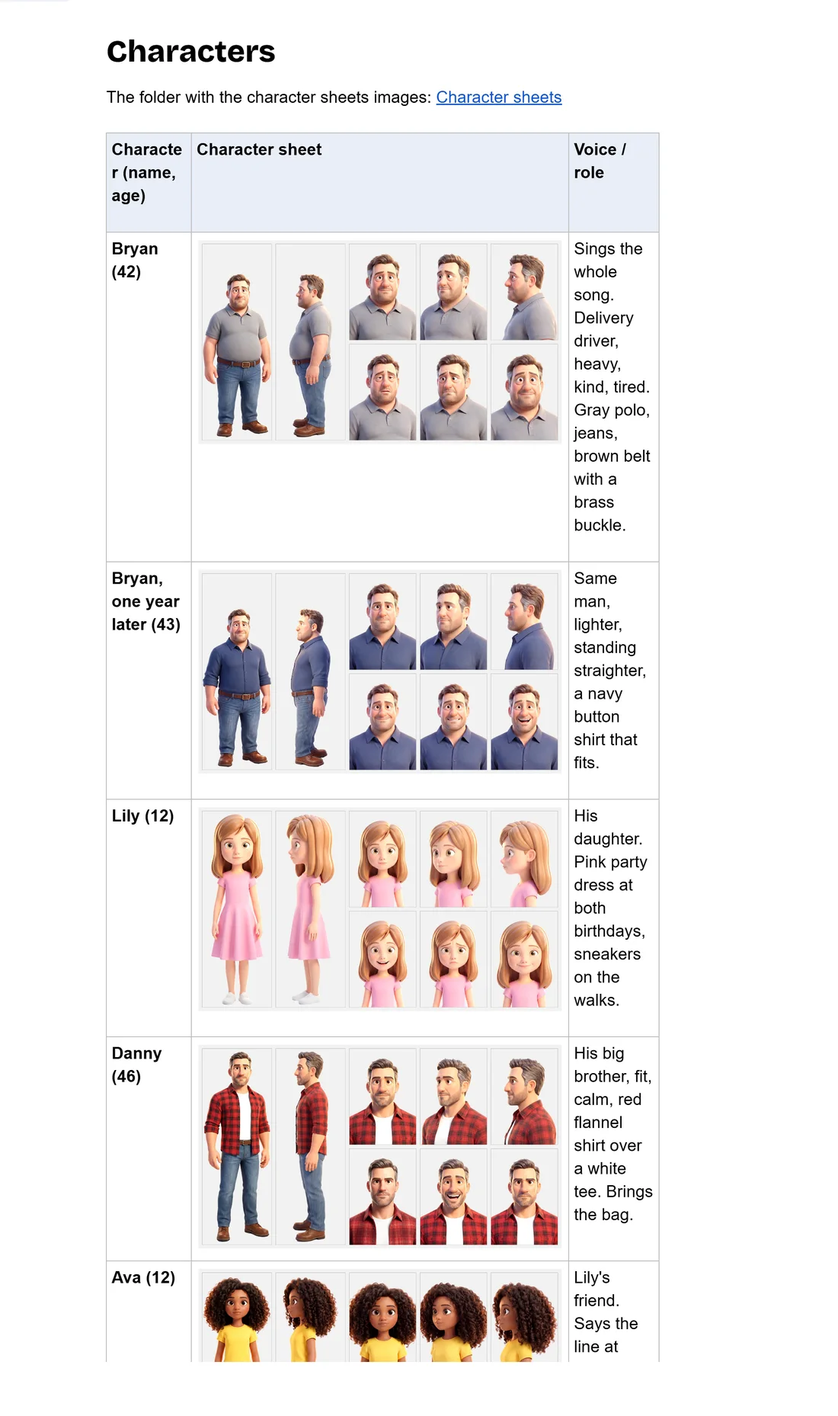
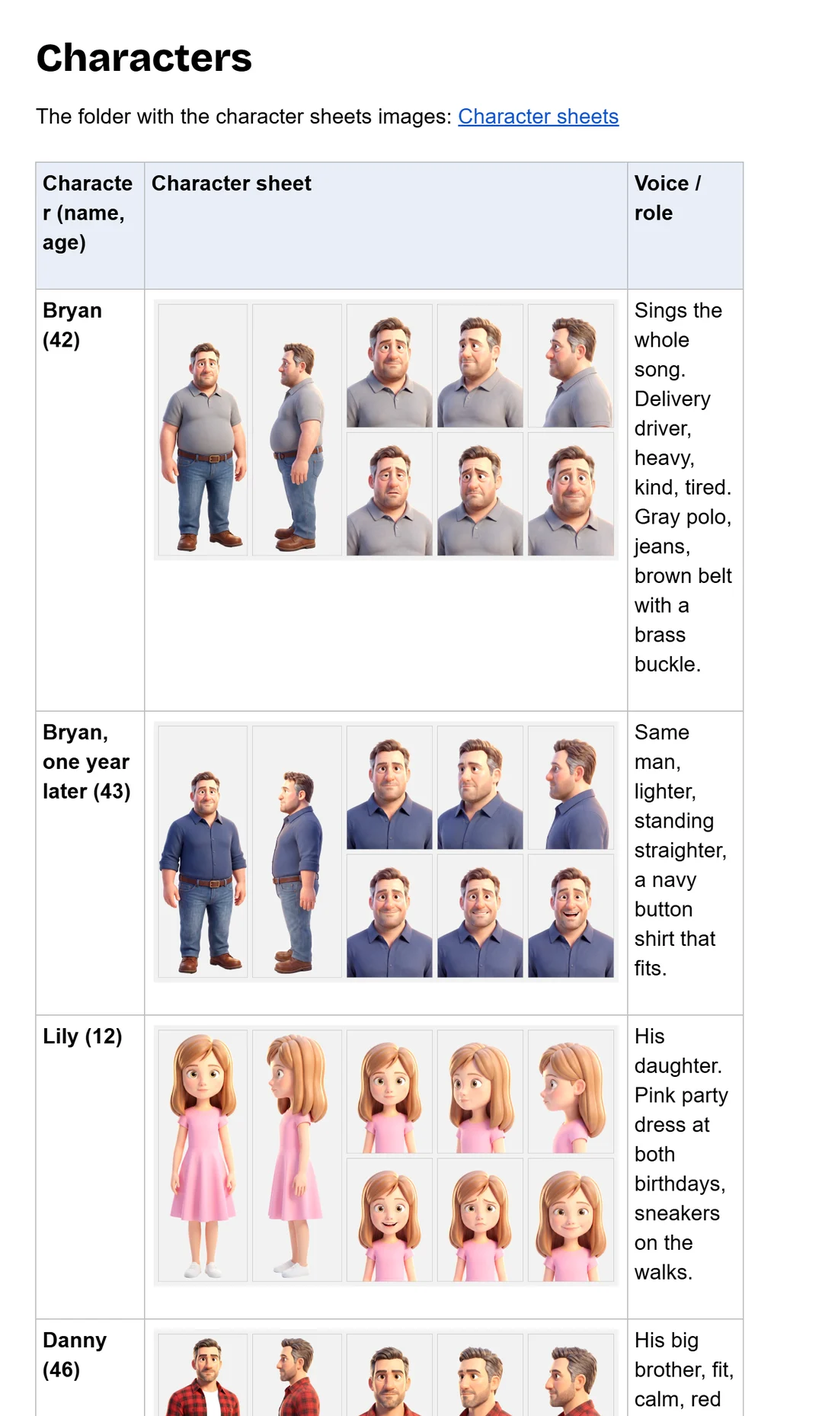
Round 6: testimonial cards on top (Valerio first), reel drag + no arrows + sizes shrink every step, statics display-only, headings in caps, font preview (?fonts), Cal.com link, fixed Bryan sheet in brief preview

diff --git a/site/index.html b/site/index.html
@@ -11,6 +11,7 @@
 <link rel="apple-touch-icon" href="/apple-touch-icon.png">
 <link rel="stylesheet" href="/fonts/fonts.css">
 <link rel="stylesheet" href="/styles.css">
+<script src="/font-preview.js" defer></script>
 </head>
 <body>
 <a class="skip-link" href="#main">Skip to content</a>
@@ -40,19 +41,23 @@
       <img class="hero-photo" src="/pascal-sterzik.webp" width="720" height="720" alt="Pascal Sterzik">
     </div>
     <div class="wrap">
-      <blockquote class="hero-quote">
-        <p>"You wrote some pretty great copy. Especially the advertorial; there was a lot of good stuff in there, a lot of good ideas."</p>
-        <footer>Svetoslav Dimitrov, copy chief at a mastermind of top 1% Meta advertisers and one of the best VSL copywriters in the world ($20M in sales)</footer>
-      </blockquote>
+      <div class="t-grid">
+        <figure class="t-card">
+          <blockquote>"They both told me that you are doing great ... Keep pushing in this way man. We like the attention to the details. 💪"</blockquote>
+          <figcaption><span class="t-photo t-initials" aria-hidden="true">VF</span><span><strong>Valerio Fortunato</strong><span class="t-role">One of the world's best on Facebook Ads</span></span></figcaption>
+        </figure>
+        <figure class="t-card">
+          <blockquote>"You wrote some pretty great copy. Especially the advertorial; there was a lot of good stuff in there, a lot of good ideas."</blockquote>
+          <figcaption><img class="t-photo" src="/people/svetoslav-dimitrov.webp" width="56" height="56" alt="Svetoslav Dimitrov"><span><strong>Svetoslav Dimitrov</strong><span class="t-role">Copy chief at a mastermind of top 1% Meta advertisers and one of the best VSL copywriters in the world ($20M in sales)</span></span></figcaption>
+        </figure>
+      </div>
     </div>
   </section>
 
   <section class="reel" id="reel" aria-labelledby="reel-h">
     <div class="wrap"><h2 id="reel-h">Here's a little taste</h2></div>
     <div class="reel-stage">
-      <button class="reel-arrow prev" data-reel-prev aria-label="Previous ads"><svg width="20" height="20" viewBox="0 0 24 24" fill="none" stroke="currentColor" stroke-width="2.2" aria-hidden="true"><path d="m15 18-6-6 6-6"/></svg></button>
       <div class="reel-track"></div>
-      <button class="reel-arrow next" data-reel-next aria-label="Next ads"><svg width="20" height="20" viewBox="0 0 24 24" fill="none" stroke="currentColor" stroke-width="2.2" aria-hidden="true"><path d="m9 18 6-6-6-6"/></svg></button>
     </div>
   </section>
 
@@ -85,9 +90,9 @@
   <section class="section section-white" aria-labelledby="brief-h">
     <div class="wrap">
       <h2 id="brief-h">Ad scripts delivered on a silver platter</h2>
-      <p class="bp-intro">I add an extra pound of attention to detail so that even a blindfolded toddler could turn these into winning videos.</p>
+      <p class="bp-intro">I add an extra pound of attention to detail so that even a blindfolded toddler could turn these into winning video ads.</p>
       <div class="bp-grid">
-        <ul class="bp-list"><li class="bp-item open"><button class="bp-head" aria-expanded="true" data-img="/brief/script.webp?v=5" data-alt="Hooks and script in the RYZE ad script brief"><span class="bp-num">01</span>Hooks and script</button><div class="bp-body"><p>Every part gets its own row. The visual, what happens, and the line. The video editor doesn't have to guess how it should look like. He simply has to turn it to life.</p></div></li><li class="bp-item"><button class="bp-head" aria-expanded="false" data-img="/brief/characters.webp" data-alt="Characters in the RYZE ad script brief"><span class="bp-num">02</span>Characters</button><div class="bp-body"><p>Every character gets a character sheet showing them from multiple angles so they look the same in every shot. Many miss this and wonder why their character switches their haircut and outfit from scene to scene. No bueno.</p></div></li><li class="bp-item"><button class="bp-head" aria-expanded="false" data-img="/brief/sets.webp" data-alt="Sets in the RYZE ad script brief"><span class="bp-num">03</span>Sets</button><div class="bp-body"><p>Every place gets a set sheet and a seating chart, so rooms, doors and seats stay the same from shot to shot. Again, you don't want random chairs appearing like it's WWE.</p></div></li><li class="bp-item"><button class="bp-head" aria-expanded="false" data-img="/brief/folder.webp?v=5" data-alt="Image folder in the RYZE ad script brief"><span class="bp-num">04</span>Image folder</button><div class="bp-body"><p>Every image in the script sits in a folder, numbered and named by hook and row so your video editor can find, download, and hand each image to Higgsfield. or Claude. Or ChatGPT. I don't care. I just want a great video ad.</p></div></li><li class="bp-item"><button class="bp-head" aria-expanded="false" data-img="/brief/briefing.webp" data-alt="Briefing in the RYZE ad script brief"><span class="bp-num">05</span>Briefing</button><div class="bp-body"><p>All the info you need, and nothing you don't. Read this to get the big idea of the ad.</p></div></li><li class="bp-item"><button class="bp-head" aria-expanded="false" data-img="/brief/editor-notes.webp" data-alt="Notes for the video editor in the RYZE ad script brief"><span class="bp-num">06</span>Notes for the video editor</button><div class="bp-body"><p>This gives clear, more detailed instructions for the video editor so he can turn the ad script brief into a video ad more efficiently.</p></div></li><li class="bp-item"><button class="bp-head" aria-expanded="false" data-img="/brief/copy.webp" data-alt="Primary text, headline, button in the RYZE ad script brief"><span class="bp-num">07</span>Primary text, headline, button</button><div class="bp-body"><p>Most creative strategists just hand the creative without the primary text, and the media buyer just slaps the same three lines on it he used for all the other 387 ads. Guess what? Andromeda uses the primary text to target better. Plus, long-form copy reduces NC CPA because only interested people click. Same with the headline and button. It's all underrated.</p></div></li><li class="bp-item"><button class="bp-head" aria-expanded="false" data-img="/brief/sources.webp?v=5" data-alt="Sources in the RYZE ad script brief"><span class="bp-num">08</span>Sources</button><div class="bp-body"><p>I don't make things up. You can find the source for every claim in here. We're just little snowflakes... we'd never lie to our customers, would we? 😙🎶</p></div></li></ul>
+        <ul class="bp-list"><li class="bp-item open"><button class="bp-head" aria-expanded="true" data-img="/brief/script.webp?v=5" data-alt="Hooks and script in the RYZE ad script brief"><span class="bp-num">01</span>Hooks and script</button><div class="bp-body"><p>Every part gets its own row. The visual, what happens, and the line. The video editor doesn't have to guess how it should look like. He simply has to turn it to life.</p></div></li><li class="bp-item"><button class="bp-head" aria-expanded="false" data-img="/brief/characters.webp?v=6" data-alt="Characters in the RYZE ad script brief"><span class="bp-num">02</span>Characters</button><div class="bp-body"><p>Every character gets a character sheet showing them from multiple angles so they look the same in every shot. Many miss this and wonder why their character switches their haircut and outfit from scene to scene. No bueno.</p></div></li><li class="bp-item"><button class="bp-head" aria-expanded="false" data-img="/brief/sets.webp" data-alt="Sets in the RYZE ad script brief"><span class="bp-num">03</span>Sets</button><div class="bp-body"><p>Every place gets a set sheet and a seating chart, so rooms, doors and seats stay the same from shot to shot. Again, you don't want random chairs appearing like it's WWE.</p></div></li><li class="bp-item"><button class="bp-head" aria-expanded="false" data-img="/brief/folder.webp?v=5" data-alt="Image folder in the RYZE ad script brief"><span class="bp-num">04</span>Image folder</button><div class="bp-body"><p>Every image in the script sits in a folder, numbered and named by hook and row so your video editor can find, download, and hand each image to Higgsfield. or Claude. Or ChatGPT. I don't care. I just want a great video ad.</p></div></li><li class="bp-item"><button class="bp-head" aria-expanded="false" data-img="/brief/briefing.webp" data-alt="Briefing in the RYZE ad script brief"><span class="bp-num">05</span>Briefing</button><div class="bp-body"><p>All the info you need, and nothing you don't. Read this to get the big idea of the ad.</p></div></li><li class="bp-item"><button class="bp-head" aria-expanded="false" data-img="/brief/editor-notes.webp" data-alt="Notes for the video editor in the RYZE ad script brief"><span class="bp-num">06</span>Notes for the video editor</button><div class="bp-body"><p>This gives clear, more detailed instructions for the video editor so he can turn the ad script brief into a video ad more efficiently.</p></div></li><li class="bp-item"><button class="bp-head" aria-expanded="false" data-img="/brief/copy.webp" data-alt="Primary text, headline, button in the RYZE ad script brief"><span class="bp-num">07</span>Primary text, headline, button</button><div class="bp-body"><p>Most creative strategists just hand the creative without the primary text, and the media buyer just slaps the same three lines on it he used for all the other 387 ads. Guess what? Andromeda uses the primary text to target better. Plus, long-form copy reduces NC CPA because only interested people click. Same with the headline and button. It's all underrated.</p></div></li><li class="bp-item"><button class="bp-head" aria-expanded="false" data-img="/brief/sources.webp?v=5" data-alt="Sources in the RYZE ad script brief"><span class="bp-num">08</span>Sources</button><div class="bp-body"><p>I don't make things up. You can find the source for every claim in here. We're just little snowflakes... we'd never lie to our customers, would we? 😙🎶</p></div></li></ul>
         <div class="bp-preview"><img id="bp-img" src="/brief/script.webp?v=5" alt="Hooks and script in the RYZE ad script brief" loading="lazy"></div>
       </div>
       <div class="bp-cta"><a class="btn btn-primary btn-big" href="https://docs.google.com/document/d/1-VPXum8p5zrKM9LkQV0jGPKiHbWKDu3WSVC5s--LYEk/edit?tab=t.0" target="_blank" rel="noopener">See the full brief</a></div>
@@ -150,15 +155,6 @@
           <li>People who want winners, not just "content"</li>
         </ul><p class="fit-foot">Sounds like you? ... It's a match! 🥳</p></div>
       </div>
-    </div>
-  </section>
-
-  <section class="section section-paper" aria-label="What people say">
-    <div class="wrap">
-      <blockquote class="big-quote">
-        <p>"They both told me that you are doing great ... Keep pushing in this way man. We like the attention to the details. 💪"</p>
-        <footer>Valerio Fortunato, one of the world's best on Facebook Ads</footer>
-      </blockquote>
     </div>
   </section>
 

diff --git a/site/app.js b/site/app.js
@@ -158,6 +158,7 @@
     track.innerHTML = list.map(a => `<button class="reel-card" data-slug="${esc(a.slug)}" aria-label="${esc(a.brand_name)}: ${esc(a.headline)}">
       <img src="${esc(a.poster_url || a.media)}" alt="${esc(a.brand_name)} ad: ${esc(a.ad_type)}" loading="lazy"></button>`).join('');
     const cards = [...track.children];
+    const S0 = 1.08, R = 0.82, LNR = Math.log(R);
     let raf = 0;
     const paint = () => {
       raf = 0;
@@ -165,13 +166,13 @@
       cards.forEach(c => {
         // distance from the center in card steps, from layout (not the transformed box)
         const w = c.offsetWidth, d = (c.offsetLeft - track.scrollLeft + w / 2 - mid) / (w + gap);
-        // Atria: cards sit on a gentle curve; the center card is clearly bigger, the rest shrink with distance
+        // Atria: cards sit on a gentle curve; the center card is biggest and every step out is smaller again
         const a = Math.abs(d);
-        const s = 1.08 - 0.2 * Math.min(a, 1) - 0.1 * Math.max(0, Math.min(a, 2) - 1);
+        const s = S0 * Math.pow(R, a);
         // pull shrunken cards inward so the gaps stay even (integral of the scale change)
-        const I = a <= 1 ? 0.08 * a - 0.1 * a * a : a <= 2 ? -0.02 - 0.12 * (a - 1) - 0.05 * (a - 1) * (a - 1) : -0.19 - 0.22 * (a - 2);
+        const I = S0 * (Math.pow(R, a) - 1) / LNR - a;
         const x = Math.sign(d) * w * I;
-        c.style.transform = 'translateX(' + x.toFixed(1) + 'px) perspective(1100px) rotateY(' + (Math.max(-2.5, Math.min(2.5, d)) * 7).toFixed(2) + 'deg) scale(' + s.toFixed(3) + ')';
+        c.style.transform = 'translateX(' + x.toFixed(1) + 'px) perspective(1100px) rotateY(' + (Math.max(-1.5, Math.min(1.5, d)) * 6).toFixed(2) + 'deg) scale(' + s.toFixed(3) + ')';
         c.style.zIndex = String(10 - Math.min(9, Math.round(a * 2)));
         c.style.opacity = '1';
         c.classList.toggle('is-center', Math.abs(d) < 0.5);
@@ -180,14 +181,37 @@
     const queue = () => { if (!raf) raf = requestAnimationFrame(paint); };
     track.addEventListener('scroll', queue, { passive: true });
     addEventListener('resize', queue);
-    const stepBy = dir => { const w = cards[0].offsetWidth + parseFloat(getComputedStyle(track).columnGap || 0); track.scrollBy({ left: dir * w, behavior: 'smooth' }); };
-    reel.querySelector('[data-reel-prev]').addEventListener('click', () => stepBy(-1));
-    reel.querySelector('[data-reel-next]').addEventListener('click', () => stepBy(1));
     // start in the middle so cards show on both sides
     requestAnimationFrame(() => { const c = cards[Math.floor(cards.length / 2)]; track.scrollLeft = c.offsetLeft - (track.clientWidth - c.clientWidth) / 2; paint(); });
     // a side card slides to the center; the center card does nothing
     const centerOn = c => track.scrollTo({ left: c.offsetLeft - (track.clientWidth - c.clientWidth) / 2, behavior: 'smooth' });
-    track.addEventListener('click', e => { const c = e.target.closest('.reel-card'); if (c && !c.classList.contains('is-center')) centerOn(c); });
+    // mouse drag on desktop: grab and swipe left or right, then snap to the nearest card
+    let drag = null, moved = false;
+    track.addEventListener('pointerdown', e => {
+      if (e.pointerType !== 'mouse' || e.button !== 0) return;
+      drag = { x: e.clientX, left: track.scrollLeft, id: e.pointerId }; moved = false;
+      track.classList.add('dragging');
+    });
+    addEventListener('pointermove', e => {
+      if (!drag || e.pointerId !== drag.id) return;
+      const dx = e.clientX - drag.x;
+      if (Math.abs(dx) > 4) moved = true;
+      track.scrollLeft = drag.left - dx;
+    });
+    const endDrag = () => {
+      if (!drag) return;
+      drag = null; track.classList.remove('dragging');
+      // snap: the card closest to the middle slides to the center
+      const mid = track.scrollLeft + track.clientWidth / 2;
+      const near = cards.reduce((b, c) => Math.abs(c.offsetLeft + c.offsetWidth / 2 - mid) < Math.abs(b.offsetLeft + b.offsetWidth / 2 - mid) ? c : b, cards[0]);
+      centerOn(near);
+    };
+    addEventListener('pointerup', endDrag); addEventListener('pointercancel', endDrag);
+    track.addEventListener('dragstart', e => e.preventDefault());
+    track.addEventListener('click', e => {
+      if (moved) { moved = false; return; } // a drag is not a click
+      const c = e.target.closest('.reel-card'); if (c && !c.classList.contains('is-center')) centerOn(c);
+    });
   }
 
   // ---------- Homepage statics rows (two marquees, opposite directions) ----------
@@ -198,9 +222,9 @@
     const half = Math.ceil(pool.length / 2);
     rows.forEach((row, k) => {
       const items = k === 0 ? pool.slice(0, half) : pool.slice(half);
-      const html = items.map(a => `<button class="mq-card" data-slug="${esc(a.slug)}" aria-label="${esc(a.brand_name)}: ${esc(a.headline)}"><img src="${esc(a.media)}" alt="" loading="lazy" style="aspect-ratio:${String(a.aspect_ratio).replace(':', '/')}"></button>`).join('');
-      row.querySelector('.mq-track').innerHTML = html + html.replace(/<button /g, '<button tabindex="-1" aria-hidden="true" ');
-      row.addEventListener('click', e => { const c = e.target.closest('.mq-card'); if (c) openAd(c.dataset.slug, items); });
+      // display only: not clickable, no hover effect
+      const html = items.map(a => `<div class="mq-card"><img src="${esc(a.media)}" alt="${esc(a.brand_name)} ad" loading="lazy" draggable="false" style="aspect-ratio:${String(a.aspect_ratio).replace(':', '/')}"></div>`).join('');
+      row.querySelector('.mq-track').innerHTML = html + html.replace(/<div class="mq-card">/g, '<div class="mq-card" aria-hidden="true">');
     });
   }
 

diff --git a/site/font-preview.js b/site/font-preview.js
@@ -1,0 +1,66 @@
+// Font preview for Pascal: open any page with ?fonts to get a switcher. Off for normal visitors.
+(function () {
+  var KEY = 'ps-font-preview';
+  var on = /[?&]fonts\b/.test(location.search);
+  try { if (on) localStorage.setItem(KEY, localStorage.getItem(KEY) || '{"i":0,"caps":true}'); else on = !!localStorage.getItem(KEY); } catch (e) {}
+  if (!on) return;
+
+  var FONTS = [
+    ['Bricolage Grotesque 700 (now)', 'Bricolage Grotesque', 700, null],
+    ['Bricolage Grotesque 800', 'Bricolage Grotesque', 800, 'Bricolage+Grotesque:opsz,wght@12..96,800'],
+    ['Archivo Black', 'Archivo Black', 400, 'Archivo+Black'],
+    ['Inter Tight Black', 'Inter Tight', 900, 'Inter+Tight:wght@900'],
+    ['Inter Tight ExtraBold (logo name)', 'Inter Tight', 800, 'Inter+Tight:wght@800'],
+    ['Montserrat Black', 'Montserrat', 900, 'Montserrat:wght@900'],
+    ['Unbounded ExtraBold', 'Unbounded', 800, 'Unbounded:wght@800'],
+    ['Syne ExtraBold', 'Syne', 800, 'Syne:wght@800'],
+    ['Anton', 'Anton', 400, 'Anton'],
+    ['Big Shoulders Display Black', 'Big Shoulders Display', 900, 'Big+Shoulders+Display:wght@900'],
+    ['Goldman Bold (logo mark)', 'Goldman', 700, 'Goldman:wght@700']
+  ];
+  var link = document.createElement('link');
+  link.rel = 'stylesheet';
+  link.href = 'https://fonts.googleapis.com/css2?' + FONTS.filter(function (f) { return f[3]; }).map(function (f) { return 'family=' + f[3]; }).join('&') + '&display=swap';
+  document.head.appendChild(link);
+
+  var style = document.createElement('style');
+  document.head.appendChild(style);
+  var state; try { state = JSON.parse(localStorage.getItem(KEY)); } catch (e) { state = { i: 0, caps: true }; }
+
+  var css = '#fp{position:fixed;right:12px;bottom:12px;z-index:200;width:290px;max-width:calc(100vw - 24px);background:#0D1B33;color:#F1F4F8;border:1px solid rgba(255,255,255,.18);border-radius:14px;box-shadow:0 20px 50px -12px rgba(0,0,0,.7);font:500 14px/1.3 "DM Sans",sans-serif}' +
+    '#fp .h{display:flex;justify-content:space-between;align-items:center;padding:10px 12px;border-bottom:1px solid rgba(255,255,255,.1);font-weight:700}' +
+    '#fp .h button{background:none;border:0;color:#A9B6C8;font:inherit;cursor:pointer;padding:4px 6px}' +
+    '#fp .b{max-height:46vh;overflow:auto;padding:6px}' +
+    '#fp .o{display:flex;gap:8px;align-items:center;width:100%;text-align:left;background:none;border:0;color:inherit;font:inherit;padding:8px;border-radius:8px;cursor:pointer}' +
+    '#fp .o:hover{background:rgba(255,255,255,.07)}#fp .o.on{background:#F2A43A;color:#060C18}' +
+    '#fp .n{min-width:1.4em;font-weight:700}' +
+    '#fp .f{display:flex;gap:8px;padding:10px 12px;border-top:1px solid rgba(255,255,255,.1)}' +
+    '#fp .f button{flex:1;min-height:36px;border-radius:999px;border:1px solid rgba(255,255,255,.2);background:none;color:inherit;font:inherit;cursor:pointer}' +
+    '#fp .f button.on{background:#F1F4F8;color:#060C18}' +
+    '#fp.min .b,#fp.min .f{display:none}';
+  var base = document.createElement('style'); base.textContent = css; document.head.appendChild(base);
+
+  function apply() {
+    var f = FONTS[state.i] || FONTS[0];
+    style.textContent = ':root{--font-display:"' + f[1] + '",sans-serif}h1,h2,h3{font-weight:' + f[2] + '}' +
+      (state.caps ? '' : 'h1,h2{text-transform:none;letter-spacing:-0.03em}');
+    try { localStorage.setItem(KEY, JSON.stringify(state)); } catch (e) {}
+    render();
+  }
+  var panel = document.createElement('div'); panel.id = 'fp';
+  function render() {
+    panel.innerHTML = '<div class="h">Font preview<span><button data-min>' + (panel.classList.contains('min') ? 'Open' : 'Hide') + '</button><button data-off title="Turn the preview off">Close</button></span></div>' +
+      '<div class="b">' + FONTS.map(function (f, i) { return '<button class="o' + (i === state.i ? ' on' : '') + '" data-i="' + i + '"><span class="n">' + (i + 1) + '</span><span style="font-family:\'' + f[1] + '\';font-weight:' + f[2] + ';font-size:16px">' + f[0] + '</span></button>'; }).join('') + '</div>' +
+      '<div class="f"><button data-caps="1" class="' + (state.caps ? 'on' : '') + '">ALL CAPS</button><button data-caps="0" class="' + (state.caps ? '' : 'on') + '">Normal case</button></div>';
+  }
+  panel.addEventListener('click', function (e) {
+    var b = e.target.closest('button'); if (!b) return;
+    if (b.hasAttribute('data-i')) state.i = +b.getAttribute('data-i');
+    if (b.hasAttribute('data-caps')) state.caps = b.getAttribute('data-caps') === '1';
+    if (b.hasAttribute('data-min')) { panel.classList.toggle('min'); render(); return; }
+    if (b.hasAttribute('data-off')) { try { localStorage.removeItem(KEY); } catch (er) {} location.href = location.pathname; return; }
+    apply();
+  });
+  function mount() { document.body.appendChild(panel); apply(); }
+  if (document.body) mount(); else addEventListener('DOMContentLoaded', mount);
+})();

diff --git a/site/styles.css b/site/styles.css
@@ -397,24 +397,18 @@ textarea.field { padding: 1rem 1.1rem; min-height: 140px; resize: vertical; line
 .reel-card.is-center { cursor: default; box-shadow: 0 30px 70px -18px rgba(0,0,0,.85); }
 .reel-card img { width: 100%; height: 100%; object-fit: cover; display: block; }
 
-.reel-arrow { position: absolute; top: 50%; transform: translateY(-50%); z-index: 2; width: 52px; height: 52px; border-radius: 50%; border: 0; background: var(--white); color: var(--navy-900); display: grid; place-items: center; cursor: pointer; box-shadow: 0 8px 24px -8px rgba(0,0,0,.5); transition: transform .2s var(--ease); }
-.reel-arrow:hover { transform: translateY(-50%) scale(1.06); }
-.reel-arrow.prev { left: clamp(12px, 3vw, 40px); } .reel-arrow.next { right: clamp(12px, 3vw, 40px); }
 @media (max-width: 640px) {
   .reel-track { gap: 14px; padding: 18px calc(50% - 36vw); }
   .reel-card { width: 72vw; }
-  .reel-arrow { width: 44px; height: 44px; }
 }
 
 .statics { background: var(--navy-900); padding: 0 0 clamp(3rem, 6vw, 4.5rem); overflow: hidden; }
 .marquee { overflow: hidden; -webkit-mask-image: linear-gradient(90deg, transparent, #000 6%, #000 94%, transparent); mask-image: linear-gradient(90deg, transparent, #000 6%, #000 94%, transparent); }
 .mq-track { display: flex; gap: 16px; width: max-content; list-style: none; margin: 0; padding: 8px 0; animation: mq 70s linear infinite; }
 .marquee.reverse .mq-track { animation-direction: reverse; }
-.marquee:hover .mq-track { animation-play-state: paused; }
 @keyframes mq { from { transform: translateX(0); } to { transform: translateX(-50%); } }
 .statics .marquee + .marquee { margin-top: 16px; }
-.mq-card { flex: none; border: 0; padding: 0; background: none; cursor: pointer; border-radius: 14px; overflow: hidden; transition: transform .25s var(--ease); }
-.mq-card:hover { transform: translateY(-4px); }
+.mq-card { flex: none; border-radius: 14px; overflow: hidden; }
 .mq-card img { height: 300px; width: auto; display: block; }
 .statics .mq-track { animation-duration: 180s; }
 @media (max-width: 640px) { .mq-card img { height: 210px; } .statics .mq-track { animation-duration: 130s; } }
@@ -515,3 +509,21 @@ textarea.field { padding: 1rem 1.1rem; min-height: 140px; resize: vertical; line
 .fit { display: flex; flex-direction: column; }
 .fit ul { margin-bottom: 1.5rem; }
 .fit .fit-foot { margin-top: auto; }
+
+/* ---------- Round 6: testimonial cards, reel drag, headings in caps ---------- */
+.t-grid { display: grid; grid-template-columns: repeat(2, minmax(0, 1fr)); gap: 1.25rem; margin-top: clamp(2rem, 4vw, 2.75rem); }
+.t-card { margin: 0; display: flex; flex-direction: column; justify-content: space-between; gap: 1.25rem; padding: 1.6rem 1.6rem 1.4rem; border-radius: 18px; background: rgba(255,255,255,.05); box-shadow: inset 0 0 0 1px rgba(255,255,255,.1); }
+.t-card blockquote { margin: 0; font-size: clamp(1.02rem, 1.4vw, 1.12rem); line-height: 1.55; color: #E3E9F1; }
+.t-card figcaption { display: flex; align-items: center; gap: .9rem; font-size: .9rem; line-height: 1.35; color: var(--on-dark-soft); }
+.t-card strong { display: block; color: var(--on-dark); font-size: 1rem; }
+.t-role { display: block; margin-top: .15rem; }
+.t-photo { flex: none; width: 56px; height: 56px; border-radius: 50%; object-fit: cover; box-shadow: 0 0 0 2px rgba(242,164,58,.7); }
+.t-initials { display: grid; place-items: center; background: var(--navy-800); color: var(--amber); font: 700 1.05rem var(--font-display); letter-spacing: .02em; }
+@media (max-width: 760px) { .t-grid { grid-template-columns: 1fr; } }
+
+.reel-track { cursor: grab; user-select: none; -webkit-user-select: none; }
+.reel-track.dragging { cursor: grabbing; scroll-snap-type: none; scroll-behavior: auto; }
+.reel-card img { pointer-events: none; }
+
+h1, h2 { text-transform: uppercase; letter-spacing: -0.01em; }
+.hero h1 { font-size: clamp(2.4rem, 5.2vw, 4.6rem); max-width: 17ch; }

diff --git a/site/book.js b/site/book.js
@@ -2,7 +2,7 @@
   'use strict';
   var ENDPOINT = 'https://brvebfxaexxjghvwyidy.supabase.co/functions/v1/site-inquiry';
   // Booking link (Cal.com, Calendly, ...). Empty = the last screen says Pascal will email a time.
-  var BOOKING_URL = '';
+  var BOOKING_URL = 'https://cal.com/pascalsterzik/creative-strategy-chat';
 
   // One question per screen. affirmation = short reaction shown on arrival, {name} = first name.
   var STEPS = [

diff --git a/site/book.html b/site/book.html
@@ -11,6 +11,7 @@
 <link rel="apple-touch-icon" href="/apple-touch-icon.png">
 <link rel="stylesheet" href="/fonts/fonts.css">
 <link rel="stylesheet" href="/styles.css">
+<script src="/font-preview.js" defer></script>
 </head>
 <body class="page-dark book-page">
 <a class="skip-link" href="#main">Skip to content</a>

diff --git a/site/portfolio.html b/site/portfolio.html
@@ -11,6 +11,7 @@
 <link rel="apple-touch-icon" href="/apple-touch-icon.png">
 <link rel="stylesheet" href="/fonts/fonts.css">
 <link rel="stylesheet" href="/styles.css">
+<script src="/font-preview.js" defer></script>
 </head>
 <body class="page-dark">
 <a class="skip-link" href="#lib">Skip to ads</a>

diff --git a/site/datenschutz.html b/site/datenschutz.html
@@ -11,6 +11,7 @@
 <link rel="apple-touch-icon" href="/apple-touch-icon.png">
 <link rel="stylesheet" href="/fonts/fonts.css">
 <link rel="stylesheet" href="/styles.css">
+<script src="/font-preview.js" defer></script>
 </head>
 <body>
 <a class="skip-link" href="#main">Skip to content</a>

diff --git a/site/impressum.html b/site/impressum.html
@@ -11,6 +11,7 @@
 <link rel="apple-touch-icon" href="/apple-touch-icon.png">
 <link rel="stylesheet" href="/fonts/fonts.css">
 <link rel="stylesheet" href="/styles.css">
+<script src="/font-preview.js" defer></script>
 </head>
 <body>
 <a class="skip-link" href="#main">Skip to content</a>
